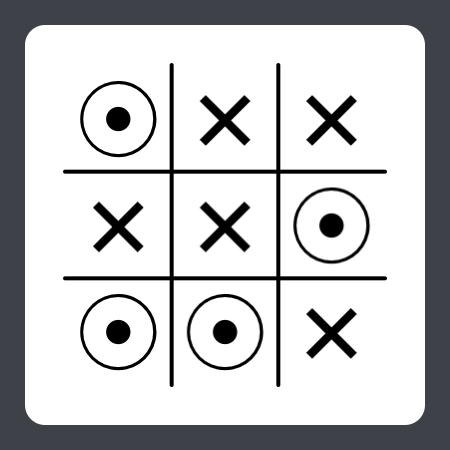
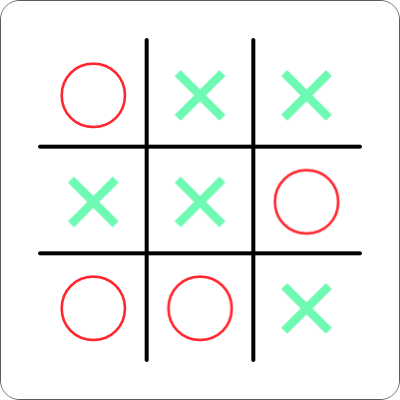
add go

diff --git a/Gameboards.playground/Sources/Core/Grid.swift b/Gameboards.playground/Sources/Core/Grid.swift
@@ -65,26 +65,37 @@ public class Grid {
         let view = GoView(frame: rect)
         
         view.p = 30
-        view.backgroundColor = UIColor.whiteColor()
+        view.backgroundColor = boardColors.background
+        view.lineColor = boardColors.foreground
         
         view.layer.cornerRadius = 10
         view.layer.masksToBounds = true
         
         let p = 30
-        let w = (rect.width - p * 2) / content.count
-        let h = (rect.height - p * 2) / content[0].count
+        let w = (rect.width - p * 2) / 8
+        let h = (rect.height - p * 2) / 8
         
         for (c,col) in content.enumerate() {
             
             for (r,item) in col.enumerate() {
                 
-//                let label = UILabel(frame: CGRect(x: c * w + p, y: r * h + p, width: w, height: h))
-//                
-//                label.text = "\(item)"
-//                label.textAlignment = .Center
-//                label.font = UIFont(name: "HelveticaNeue-Thin", size: (w + h) / 2 - 10)
-//                
-//                view.addSubview(label)
+                let label = UILabel(frame: CGRect(x: c * w + p - w / 2, y: r * h + p - h / 2, width: w, height: h))
+                var piece = "\(item)"
+                
+                label.textColor = player(piece) == 0 ? boardColors.player1 : boardColors.player2
+                
+                if player(piece) == 1 {
+                    
+                    if let index = playerPieces[1].array().indexOf(piece) { piece = playerPieces[0].array()[index] }
+                    
+                }
+                
+                label.text = piece
+                label.textAlignment = .Center
+                label.font = UIFont(name: "HelveticaNeue-Thin", size: (w + h) / 2)
+                
+                view.addSubview(label)
+
                 
             }
             
@@ -146,15 +157,23 @@ public class Grid {
             for (c,item) in row.enumerate() {
                 
                 let label = UILabel(frame: CGRect(x: c * w + c, y: r * h + r, width: w, height: h))
+                let piece = "\(item)"
                 
-                label.text = "\(item)"
+                label.text = piece
                 label.textAlignment = .Center
                 label.font = UIFont(name: "HelveticaNeue", size: (w + h) / 2 - 5)
                 
-                label.textColor = boardColors.foreground
+                label.textColor = player(piece) == 0 ? boardColors.player1 : boardColors.player2
+                label.backgroundColor = player(piece) == 1 ? boardColors.selected : boardColors.background
                 
-                if "\(item)" == "•" { label.backgroundColor = boardColors.foreground }
-                if let num = Int("\(item)") { label.textColor = boardColors.foreground.colorWithAlphaComponent(num * 0.3) }
+                if piece == "•" {
+                    
+                    label.textColor = boardColors.foreground
+                    label.backgroundColor = boardColors.foreground
+                
+                }
+                
+                if let num = Int("\(item)") { label.textColor = boardColors.highlight }
                 
                 view.addSubview(label)
                 
@@ -171,6 +190,7 @@ public class Grid {
         let view = SudokuView(frame: rect)
         
         view.backgroundColor = boardColors.background
+        view.lineColor = boardColors.foreground
         
         view.layer.cornerRadius = 10
         view.layer.masksToBounds = true
@@ -226,11 +246,12 @@ public class Grid {
             for (c,item) in row.enumerate() {
                 
                 let label = UILabel(frame: CGRect(x: c * w + p, y: r * h + p, width: w, height: h))
+                let piece = "\(item)"
                 
-                label.text = "\(item)"
+                label.text = piece
                 label.textAlignment = .Center
                 label.font = UIFont(name: "HelveticaNeue-Thin", size: (w + h) / 2 - 10)
-                label.textColor = boardColors.foreground
+                label.textColor = player(piece) == 0 ? boardColors.player1 : boardColors.player2
                 
                 view.addSubview(label)
                 
@@ -276,7 +297,7 @@ public class Grid {
             
         }
         
-        return 0
+        return -1
         
     }
     

diff --git a/Gameboards.playground/Sources/Boards/Go.swift b/Gameboards.playground/Sources/Boards/Go.swift
@@ -1,18 +1,67 @@
 import UIKit
 
+enum GoError: ErrorType {
+    
+    case OpenChain
+    
+}
+
 public struct Go {
     
     public static var board: Grid = Grid(9 ✕ (9 ✕ ""))
     
-    public static let playerPieces = ["●1","●2"]
+    public static let playerPieces = ["●","○"]
     
-    public static func validateMove(s1: Square, _ grid: Grid, _ player1: Bool) throws {
+    public static func checkCapture(s1: Square, _ p1: Piece, _ grid: Grid) {
         
-        // validate if playable
+        let points = [ (-1,0),(0,1),(1,0),(0,-1) ]
         
-        // current player
-        let player = player1 ? 0 : 1
+        func checkChain(s1: Square, var _ chain: [Square]) throws -> [Square] {
+            
+            var squares = [s1]
+            
+            for p in points {
+                
+                let s = (s1.0 + p.0, s1.1 + p.1)
+                guard !(chain.contains { $0.0 == s.0 && $0.1 == s.1 }) else { continue }
+                guard grid.onBoard(s) else { continue }
+                guard let a1 = grid[s.0,s.1] as? Piece where a1 != p1 else { continue }
+                guard a1 != "" else { throw GoError.OpenChain }
+                
+                chain.append(s)
+                print(chain)
+                
+                do { squares += try checkChain(s, chain) } catch { throw error }
+                
+            }
+            
+            return squares
+            
+        }
+        
+        for p in points {
+            
+            let s = (s1.0 + p.0, s1.1 + p.1)
+            guard grid.onBoard(s) else { continue }
+            guard let a1 = grid[s.0,s.1] as? Piece where a1 != "" && a1 != p1 else { continue }
+            
+            if let squares = try? checkChain(s, [s]) {
+                
+                for s in squares { grid[s.0,s.1] = "" }
+                
+            }
+            
+        }
+        
+    }
+    
+    public static func validateMove(s1: Square, _ p1: Piece, _ grid: Grid, _ player: Int) throws {
+        
+        guard p1 == "" else { throw MoveError.InvalidMove }
+        
         grid[s1.0,s1.1] = playerPieces[player]
+        
+        checkCapture(s1, playerPieces[player], grid)
         
     }
     

diff --git a/Gameboards.playground/Sources/Boards/Minesweeper.swift b/Gameboards.playground/Sources/Boards/Minesweeper.swift
@@ -25,7 +25,7 @@ public struct Minesweeper {
         
 //        let grid = Grid(10 ✕ (10 ✕ " "))
 //        
-//        for (r,_) in grid.content.enumerate() { grid[r,0] = "✴" }
+//        for (r,_) in grid.content.enumerate() { grid[r,0] = "✘" }
 //        for (r,row) in grid.content.enumerate() { grid[r] = row.randomize() }
 //        
 //        return grid
@@ -34,6 +34,8 @@ public struct Minesweeper {
     
     public static var field = Grid(10 ✕ (10 ✕ "•"))
     
+    public static let playerPieces = ["⚑","✘"]
+    
     public static func validateGuess(s1: Square, _ grid: Grid, _ solution: Grid) throws {
         
         guard let a1 = solution[s1.0,s1.1] as? Guess else { throw MoveError.IncorrectPiece }
@@ -41,7 +43,7 @@ public struct Minesweeper {
         
         grid[s1.0,s1.1] = a1
         
-        guard a1 != "•" else { grid[s1.0,s1.1] = "✴"; throw GameStatus.GameOver }
+        guard a1 != "•" else { grid[s1.0,s1.1] = "✘"; throw GameStatus.GameOver }
         guard a1 == " " else { return }
                 
         try checkAdjacent(s1, grid, solution)
@@ -52,9 +54,9 @@ public struct Minesweeper {
         
         guard let g1 = grid[s1.0,s1.1] as? Guess else { throw MoveError.IncorrectPiece }
         
-        guard g1 != "⌀" else { return grid[s1.0,s1.1] = "•" }
+        guard g1 != "⚑" else { return grid[s1.0,s1.1] = "•" }
         
-        grid[s1.0,s1.1] = "⌀"
+        grid[s1.0,s1.1] = "⚑"
         
     }
     

diff --git a/Gameboards.playground/Pages/Go.xcplaygroundpage/Contents.swift b/Gameboards.playground/Pages/Go.xcplaygroundpage/Contents.swift
@@ -2,6 +2,18 @@ import UIKit
 
 var go = Gameboard(.Go)
 
+// setup colors
+
+var colors = BoardColors()
+
+colors.background = UIColor(red:0.36, green:0.29, blue:0.16, alpha:1)
+colors.foreground = UIColor(red:0.11, green:0.08, blue:0.03, alpha:1)
+
+colors.player1 = UIColor.whiteColor()
+colors.player2 = UIColor.blackColor()
+
+go.boardColors = colors
+
 // collection of guesses
 
 let moves: [Square] = [
@@ -10,7 +22,10 @@ let moves: [Square] = [
     (1,1),
     (6,7),
     (1,7),
-    (6,0)
+    (6,0),
+    (4,4),
+    (4,5),
+    (1,2),
     
 ]
 

diff --git a/Gameboards.playground/Pages/Minesweeper.xcplaygroundpage/Contents.swift b/Gameboards.playground/Pages/Minesweeper.xcplaygroundpage/Contents.swift
@@ -4,6 +4,21 @@ enum MoveType { case Guess, Mark }
 
 var minesweeper = Gameboard(.Minesweeper)
 
+// setup colors
+
+var colors = BoardColors()
+
+colors.background = UIColor(red:0.5, green:0.5, blue:0.5, alpha:1)
+colors.foreground = UIColor(red:0.6, green:0.6, blue:0.6, alpha:1)
+
+colors.player1 = UIColor.yellowColor()
+colors.player2 = UIColor.blackColor()
+
+colors.highlight = UIColor.blueColor()
+colors.selected = UIColor.redColor()
+
+minesweeper.boardColors = colors
+
 // collection of guesses
 
 let guesses: [(Square,MoveType)] = [

diff --git a/Gameboards.playground/Sources/Core/Views/GoView.swift b/Gameboards.playground/Sources/Core/Views/GoView.swift
@@ -3,6 +3,7 @@ import UIKit
 public class GoView: UIView {
     
     public var p: CGFloat = 20
+    public var lineColor = UIColor.blackColor()
     
     public override func drawRect(rect: CGRect) {
         
@@ -10,6 +11,8 @@ public class GoView: UIView {
         
         CGContextSetLineCap(c, .Round)
         CGContextSetLineJoin(c, .Round)
+        
+        lineColor.set()
         
         let w8 = (rect.width - p * 2) / 8
         let h8 = (rect.height - p * 2) / 8

diff --git a/Gameboards.playground/Sources/Core/Views/SudokuView.swift b/Gameboards.playground/Sources/Core/Views/SudokuView.swift
@@ -2,12 +2,16 @@ import UIKit
 
 public class SudokuView: UIView {
     
+    var lineColor = UIColor.blackColor()
+    
     public override func drawRect(rect: CGRect) {
         
         let c = UIGraphicsGetCurrentContext()
         
         CGContextSetLineCap(c, .Round)
         CGContextSetLineJoin(c, .Round)
+        
+        lineColor.set()
         
         let w9 = rect.width / 9
         let h9 = rect.height / 9

diff --git a/Gameboards.playground/Sources/Validation.swift b/Gameboards.playground/Sources/Validation.swift
@@ -125,7 +125,7 @@ extension Gameboard {
         switch _type {
             
         case .Backgammon, .Checkers, .Chess, .Mancala, .Minesweeper, .Sudoku: throw MoveError.IncorrectPiece
-        case .Go: break
+        case .Go: try Go.validateMove(s1, p1, grid, playerTurn)
         case .TicTacToe: try TicTacToe.validateMove(s1, p1, grid, playerTurn)
             
         }

diff --git a/Gameboards.playground/Pages/Sudoku.xcplaygroundpage/Contents.swift b/Gameboards.playground/Pages/Sudoku.xcplaygroundpage/Contents.swift
@@ -2,6 +2,15 @@ import UIKit
 
 var sudoku = Gameboard(.Sudoku)
 
+// setup colors
+
+var colors = BoardColors()
+
+colors.background = UIColor(red:0.19, green:0.78, blue:0.71, alpha:1)
+colors.foreground = UIColor(red:0.09, green:0.4, blue:0.44, alpha:1)
+
+sudoku.boardColors = colors
+
 // collection of guesses
 
 let guesses: [(Square,Guess)] = [

diff --git a/Gameboards.playground/Pages/TicTacToe.xcplaygroundpage/Contents.swift b/Gameboards.playground/Pages/TicTacToe.xcplaygroundpage/Contents.swift
@@ -2,6 +2,15 @@ import UIKit
 
 var tictactoe = Gameboard(.TicTacToe)
 
+// setup colors
+
+var colors = BoardColors()
+
+colors.player1 = UIColor(red:0.43, green:0.98, blue:0.7, alpha:1)
+colors.player2 = UIColor(red:1, green:0.15, blue:0.18, alpha:1)
+
+tictactoe.boardColors = colors
+
 // collection of moves
 
 let moves: [Square] = [

diff --git a/Gameboards.playground/Sources/Boards/TicTacToe.swift b/Gameboards.playground/Sources/Boards/TicTacToe.swift
@@ -4,7 +4,7 @@ public struct TicTacToe {
     
     public static var board: Grid = Grid(3 ✕ (3 ✕ ""))
     
-    public static let playerPieces = ["✕","⦿"]
+    public static let playerPieces = ["✕","○"]
     
     public static func validateMove(s1: Square, _ p1: Piece, _ grid: Grid, _ player: Int) throws {
         

diff --git a/Gameboards.playground/Sources/Gameboard.swift b/Gameboards.playground/Sources/Gameboard.swift
@@ -121,6 +121,7 @@ public struct Gameboard {
             
             solution = Minesweeper.board
             grid = Minesweeper.field
+            playerPieces = Minesweeper.playerPieces
             
         case .Sudoku:
             
